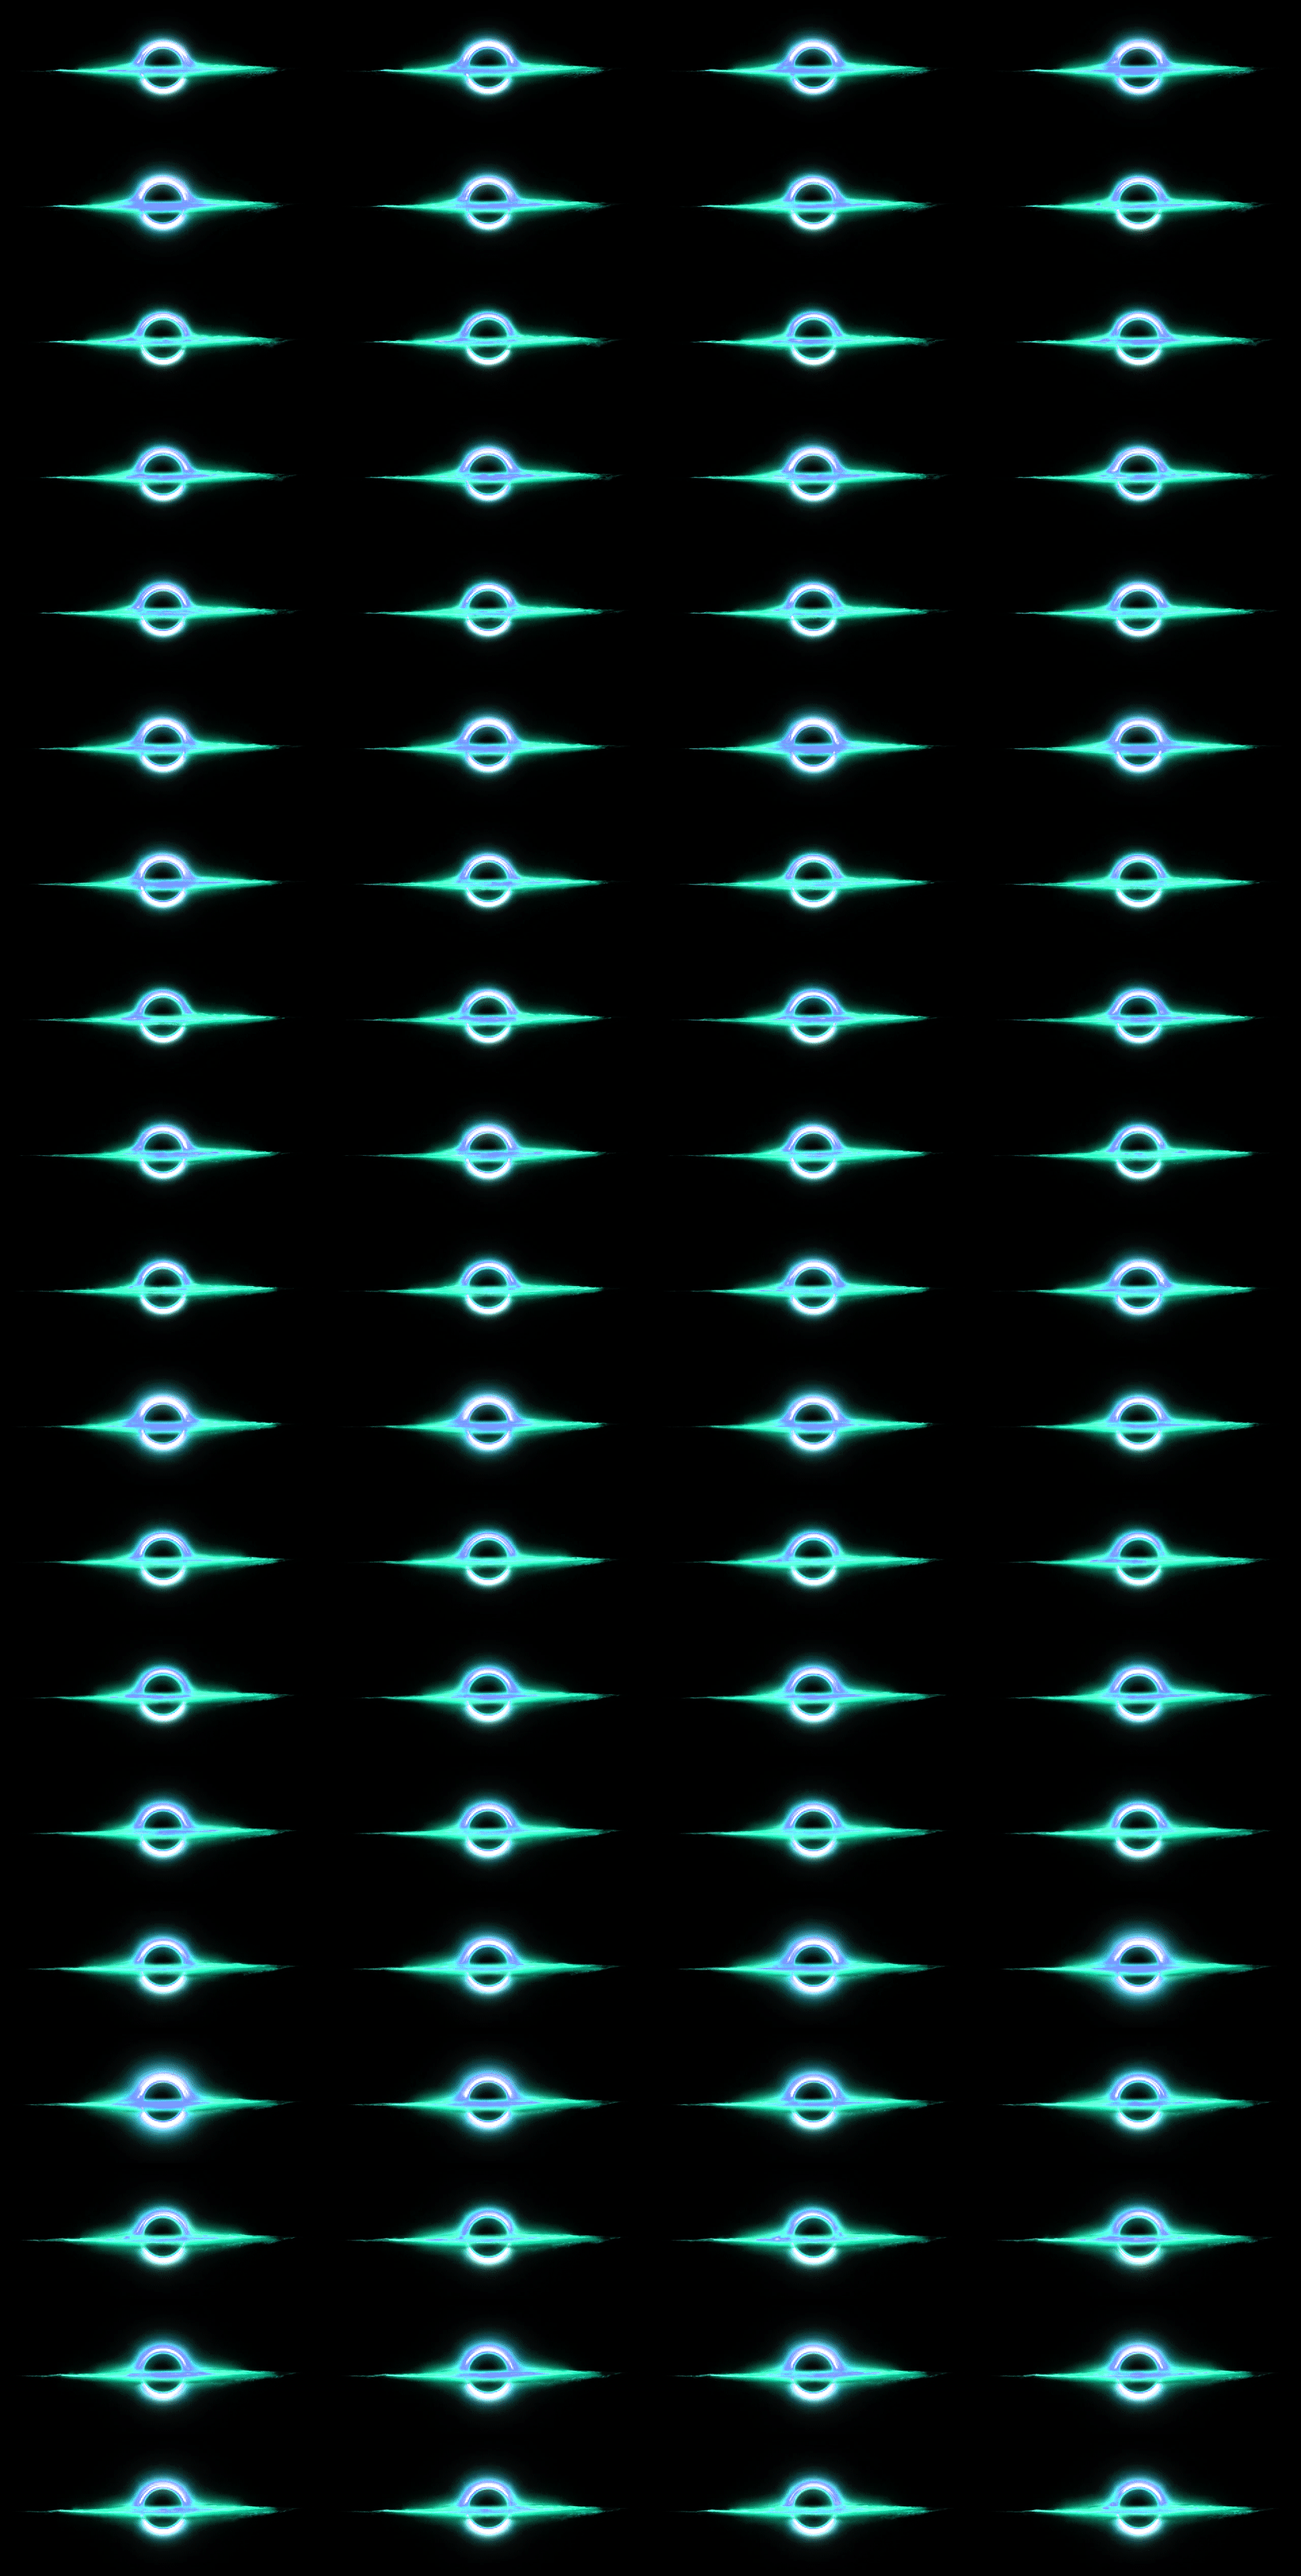
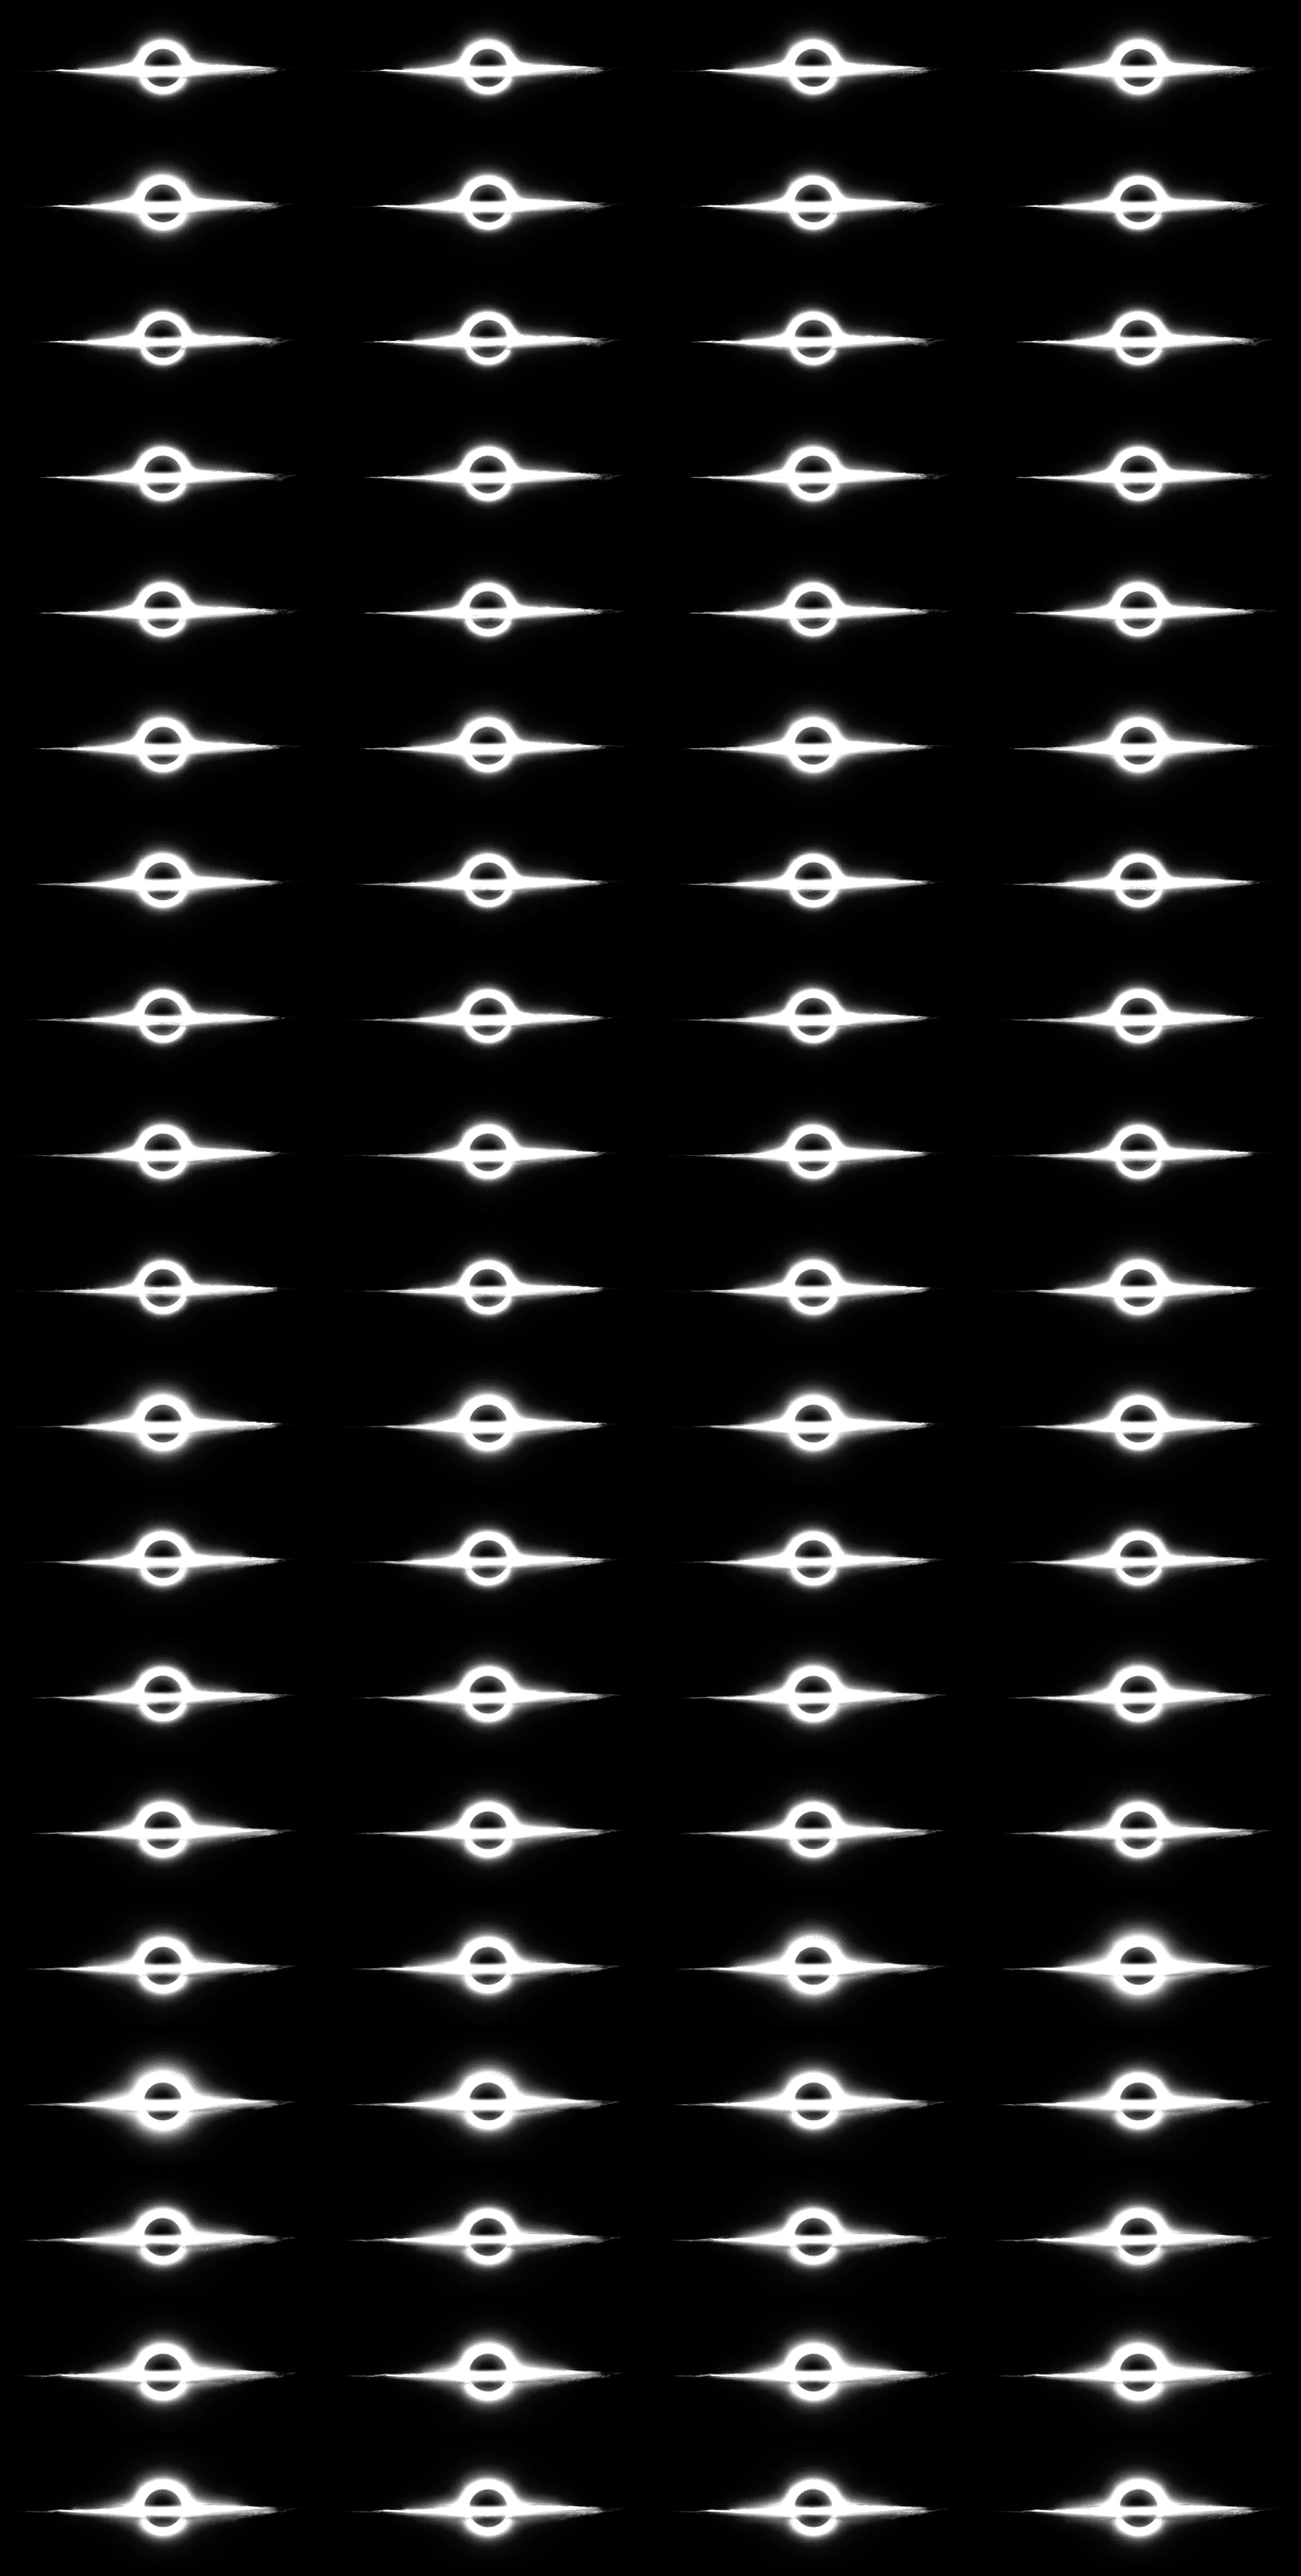
dark versiom

diff --git a/Content/Areas/Illuria/BossesIL/EStyr/BlackSeaRenderer.cs b/Content/Areas/Illuria/BossesIL/EStyr/BlackSeaRenderer.cs
@@ -227,8 +227,10 @@ namespace Stellamod.Content.Areas.Illuria.BossesIL.EStyr
             SpriteBatch spriteBatch = Main.spriteBatch;
             if (!Main.gameMenu && behindTiles)
             {
+
                 if (drawBlackSea)
                 {
+
                     spriteBatch.GraphicsDevice.Clear(Color.Transparent);
                     spriteBatch.End();
                     spriteBatch.Begin();
@@ -287,6 +289,7 @@ namespace Stellamod.Content.Areas.Illuria.BossesIL.EStyr
             base.PreUpdateNPCs();
             drawBlackSea = false;
             renderBlackSea = false;
+            darkenedSingularity = false;
         }
 
         public override void PostUpdateNPCs()
@@ -321,8 +324,11 @@ namespace Stellamod.Content.Areas.Illuria.BossesIL.EStyr
         private float _singularityRotation;
         private float _spinTimer;
         private string _rootTexturePath;
+
+        public bool darkenedSingularity;
         public void DrawSingularity(Vector2 drawCenter, Vector2 screenPos)
         {
+
             Vector2 drawPosition = drawCenter - screenPos;
             _rootTexturePath = this.GetType().DirectoryHere() + "/BlackSingularity";
             Texture2D celestialRing = ModContent.Request<Texture2D>(_rootTexturePath + "_CelestialRing").Value;
@@ -332,6 +338,8 @@ namespace Stellamod.Content.Areas.Illuria.BossesIL.EStyr
             SpriteBatch spriteBatch = Main.spriteBatch;
             ringDrawColor *= 0.05f;
             ringDrawColor.A = 0;
+            if (darkenedSingularity)
+                ringDrawColor *= 0.5f;
             spriteBatch.Draw(celestialRing, drawPosition, null, ringDrawColor, _singularityRotation, ringDrawOrigin, 4, SpriteEffects.None, 0);
 
             Texture2D texture = ModContent.Request<Texture2D>(_rootTexturePath).Value;
@@ -354,20 +362,30 @@ namespace Stellamod.Content.Areas.Illuria.BossesIL.EStyr
 
             float sparkyRot = _singularityRotation + spinRotOffset;
             float scaleOsc2 = ExtraMath.Osc(0.4f, 0.5f, speed: 1);
-            spriteBatch.Draw(lightTexture, drawPosition, null, Color.White * 0.75f, sparkyRot, lightDrawOrigin, drawScale * 3 * scaleOsc2, SpriteEffects.None, 0);
-            spriteBatch.Draw(lightTexture, drawPosition, null, Color.White * 0.25f, sparkyRot + 0.2f, lightDrawOrigin, drawScale * 8 * scaleOsc2, SpriteEffects.None, 0);
+
+            Color sparkyColor = Color.White * 0.75f;
+            if (darkenedSingularity)
+                sparkyColor *= 0.5f;
+            spriteBatch.Draw(lightTexture, drawPosition, null, sparkyColor, sparkyRot, lightDrawOrigin, drawScale * 3 * scaleOsc2, SpriteEffects.None, 0);
+            spriteBatch.Draw(lightTexture, drawPosition, null, sparkyColor * 0.25f, sparkyRot + 0.2f, lightDrawOrigin, drawScale * 8 * scaleOsc2, SpriteEffects.None, 0);
 
 
             var shader = SingularityShader.Instance;
             shader.InnerColor = Color.White;
             shader.OuterColor = Color.White;
             spriteBatch.Restart(effect: shader.Effect);
-            spriteBatch.Draw(texture, drawPosition, null, Color.White, _singularityRotation, drawOrigin, drawScale * 1.5f * scaleOsc2, SpriteEffects.None, 0);
+
+            Color singularityColor = Color.White;
+            if (darkenedSingularity)
+                singularityColor *= 0.5f;
+            spriteBatch.Draw(texture, drawPosition, null, singularityColor, _singularityRotation, drawOrigin, drawScale * 1.5f * scaleOsc2, SpriteEffects.None, 0);
             spriteBatch.RestartDefaults();
 
             Texture2D diskTexture = ModContent.Request<Texture2D>("Stellamod/Assets/NoiseTextures/SFGrey").Value;
             Vector2 diskDrawOrigin = diskTexture.Size() / 2f;
             Color diskDrawColor = Color.Lerp(Color.White, Color.Gray, ExtraMath.Osc(0f, 1f, speed: 2));
+            if (darkenedSingularity)
+                diskDrawColor *= 0.5f;
             diskDrawColor.A = 0;
 
             float scaleOsc = ExtraMath.Osc(0.5f, 0.58f, speed: 1);
@@ -384,6 +402,8 @@ namespace Stellamod.Content.Areas.Illuria.BossesIL.EStyr
             Vector2 extra67DrawOrigin = extra67.Size() / 2f;
             Color extra67DrawColor = Color.Lerp(Color.White, Color.Gray, ExtraMath.Osc(0f, 1f, speed: 2));
             extra67DrawColor.A = 0;
+            if (darkenedSingularity)
+                extra67DrawColor *= 0.5f;
             spriteBatch.Draw(extra67, drawPosition, null, extra67DrawColor * 0.2f, _singularityRotation, extra67DrawOrigin, drawScale * 0.8f * scaleOsc, SpriteEffects.None, 0);
             DrawIncresionDiskBottom(spriteBatch, drawCenter, screenPos, Color.White);
             DrawIncresionDiskTop(spriteBatch, drawCenter, screenPos, Color.White);
@@ -397,6 +417,8 @@ namespace Stellamod.Content.Areas.Illuria.BossesIL.EStyr
             //Incresion Disk Draw Color
             Color incresionDiskDrawColor = Color.White;
             incresionDiskDrawColor *= 0.15f;
+            if (darkenedSingularity)
+                incresionDiskDrawColor *= 0.5f;
             incresionDiskDrawColor.A = 0;
 
             Vector2 drawPos = drawCenter - screenPos;
@@ -406,12 +428,16 @@ namespace Stellamod.Content.Areas.Illuria.BossesIL.EStyr
 
             incresionDiskDrawColor = Color.Gray;
             incresionDiskDrawColor *= 0.25f;
+            if (darkenedSingularity)
+                incresionDiskDrawColor *= 0.5f;
             incresionDiskDrawColor.A = 0;
 
             spriteBatch.Draw(supernovaTopTexture, drawPos, incresionDiskRect, incresionDiskDrawColor, _singularityRotation, drawOrigin, drawScale * 1.5f, SpriteEffects.None, 0);
 
             incresionDiskDrawColor = Color.DarkGray;
             incresionDiskDrawColor *= 0.25f;
+            if (darkenedSingularity)
+                incresionDiskDrawColor *= 0.5f;
             incresionDiskDrawColor.A = 0;
 
             spriteBatch.Draw(supernovaTopTexture, drawPos, incresionDiskRect, incresionDiskDrawColor, _singularityRotation, drawOrigin, drawScale * 2, SpriteEffects.None, 0);
@@ -428,7 +454,8 @@ namespace Stellamod.Content.Areas.Illuria.BossesIL.EStyr
             Color incresionDiskDrawColor = Color.White;
             incresionDiskDrawColor *= 0.15f;
             incresionDiskDrawColor.A = 0;
-
+            if (darkenedSingularity)
+                incresionDiskDrawColor *= 0.5f;
             Vector2 drawPos = drawCenter - screenPos;
             Vector2 drawOrigin = incresionDiskRect.Size() / 2;
 

diff --git a/Core/Bases/CrossbowHold.cs b/Core/Bases/CrossbowHold.cs
@@ -121,6 +121,7 @@ namespace Stellamod.Core.Bases
             {
                 SoundStyle crossbowPull = AssetRegistry.Sounds.Bow.CrossbowPull;
                 crossbowPull.PitchVariance = 0.1f;
+                crossbowPull.Volume = 0.25f;
                 SoundEngine.PlaySound(crossbowPull, Projectile.position);
             }
 
@@ -186,6 +187,7 @@ namespace Stellamod.Core.Bases
             {
                 SoundStyle aimSound = AssetRegistry.Sounds.Bow.Aim;
                 aimSound.PitchVariance = 0.2f;
+                aimSound.Volume = 0.25f;
                 SoundEngine.PlaySound(aimSound, Projectile.position);
                 if(Owner.HeldItem.ModItem is BaseCrossbowItem cb && Main.myPlayer == Projectile.owner)
                 {

diff --git a/Core/MoonWaters/MoonWaterSystem.cs b/Core/MoonWaters/MoonWaterSystem.cs
@@ -284,6 +284,9 @@ namespace Stellamod.Core.MoonWaters
             orig(self);
             if (_reflectionRT == null)
                 return;
+            if (Main.gameMenu)
+                return;
+
             SpriteBatch spriteBatch = Main.spriteBatch;
 
             //Copy the current screen target for reflections
@@ -328,6 +331,9 @@ namespace Stellamod.Core.MoonWaters
             var config = ModContent.GetInstance<LunarVeilClientConfig>();
             if (!config.LiquidsToggle)
                 return;
+            if (Main.gameMenu)
+                return;
+
             if (layer == RenderLayers.ForegroundWater)
             {
                 //This is called right before the front water gets drawn

diff --git a/Content/Areas/Illuria/BossesIL/EStyr/E.cs b/Content/Areas/Illuria/BossesIL/EStyr/E.cs
@@ -109,6 +109,7 @@ namespace Stellamod.Content.Areas.Illuria.BossesIL.EStyr
             Death_FlyOff
         }
 
+        private bool _drawDarkened;
         private bool _startedFight;
         private bool _intro;
         private bool _showNamePlate;
@@ -298,6 +299,7 @@ namespace Stellamod.Content.Areas.Illuria.BossesIL.EStyr
 
                 BlackSeaRenderer blackseaRenderer = ModContent.GetInstance<BlackSeaRenderer>();
                 blackseaRenderer.drawBlackSea = true;
+                blackseaRenderer.darkenedSingularity = _drawDarkened;
             }
             else
             {

diff --git a/Core/Utilities/ManagedRenderTargetManager.cs b/Core/Utilities/ManagedRenderTargetManager.cs
@@ -80,7 +80,7 @@ namespace Stellamod.Core.Utilities
             //This looks weird, it's just so something gets output while the render target is loading
             //Might cause flickers when you resize the screen depending on what you're using the render target for
             //But that's such a non issue
-            if (managedRenderTarget._renderTarget == null)
+            if (managedRenderTarget._renderTarget == null ||managedRenderTarget._renderTarget.IsDisposed)
             {
                 return Main.screenTargetSwap;
             }

diff --git a/Content/Areas/Illuria/BossesIL/EStyr/E.Intro.cs b/Content/Areas/Illuria/BossesIL/EStyr/E.Intro.cs
@@ -220,7 +220,7 @@ namespace Stellamod.Content.Areas.Illuria.BossesIL.EStyr
                 donut.innerColor = Color.White;
                 donut.Scale *= 4;
                 donut.noStretch = true;
-
+                _drawDarkened = true;
                 ScreenShaderSystem screenShaderSystem = ModContent.GetInstance<ScreenShaderSystem>();
                 screenShaderSystem.TintScreen(Color.Black, 0.5f, 30);
                 SoundStyle explosionSound = new SoundStyle("Stellamod/Assets/Sounds/VoidBlasterExplosionBomb2");
